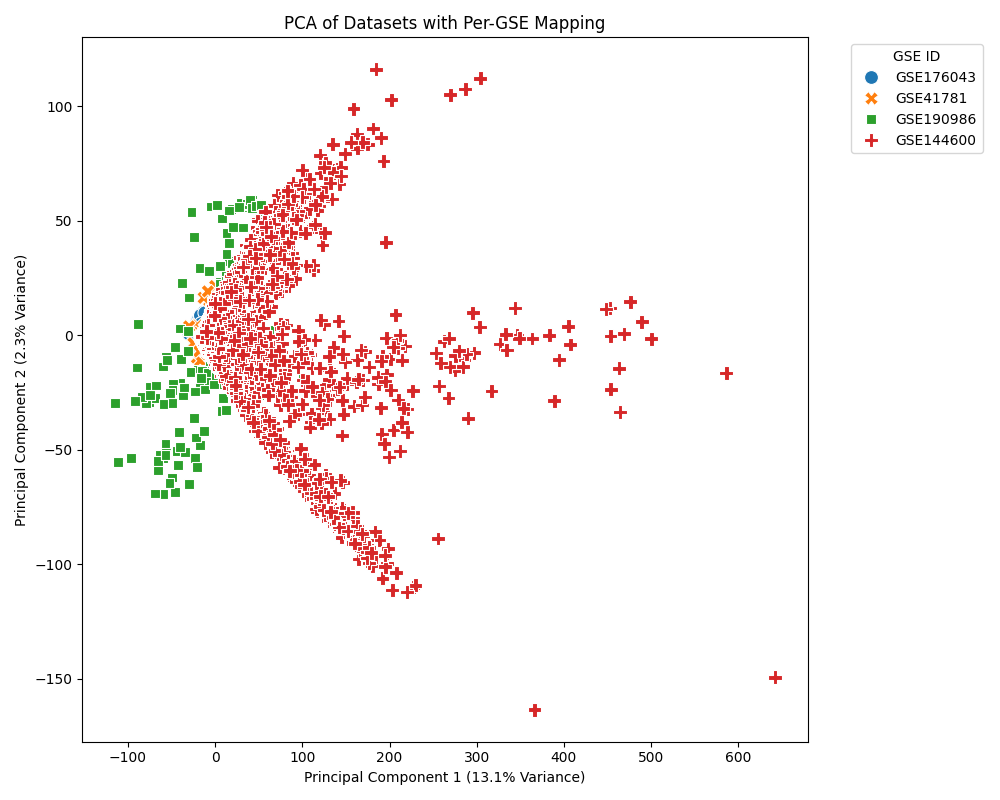
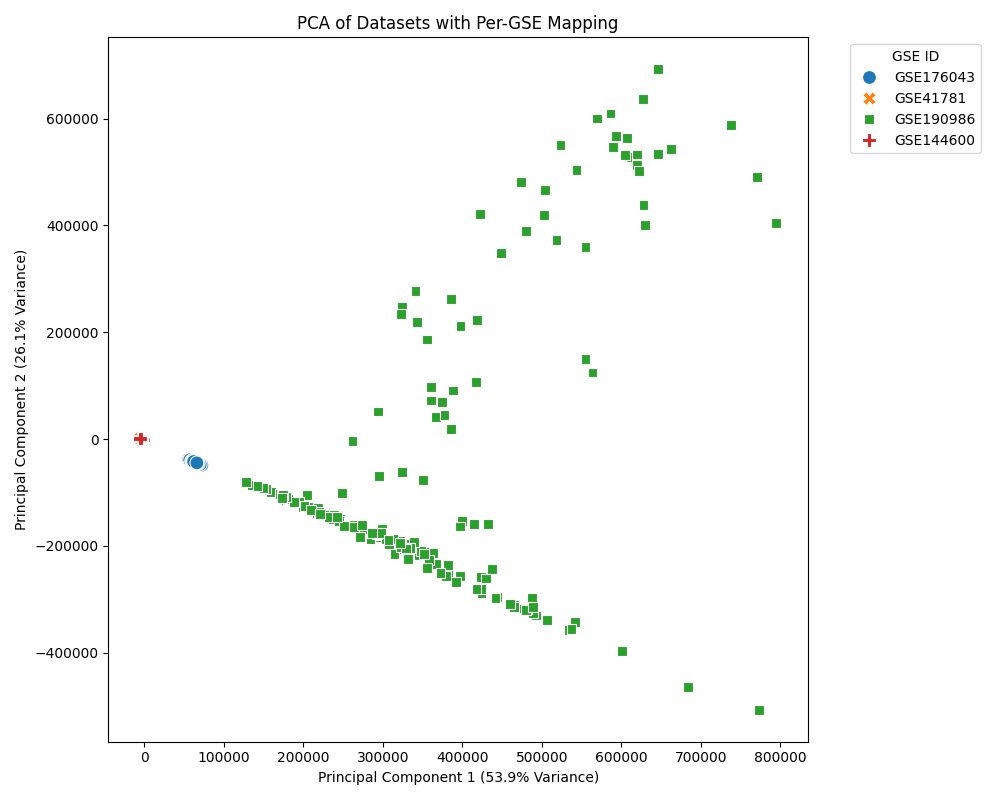
GSE solution - all plots vers

diff --git a/examples/coding/gse_solution/pca_plot_norenorm.py b/examples/coding/gse_solution/pca_plot_norenorm.py
@@ -1,0 +1,167 @@
+import pandas as pd
+import os
+from sklearn.decomposition import PCA
+from sklearn.preprocessing import RobustScaler, StandardScaler
+import matplotlib.pyplot as plt
+import seaborn as sns
+from itertools import combinations
+import numpy as np
+
+def plot_data_distributions(datasets):
+    for gse_id, data in datasets.items():
+        flattened_data = data.values.flatten()
+        flattened_data = flattened_data[~np.isnan(flattened_data)]
+        plt.figure(figsize=(10, 6))
+        plt.hist(flattened_data, bins=100, color='blue', alpha=0.7)
+        plt.title(f'Data Distribution for {gse_id}')
+        plt.xlabel('Expression Value')
+        plt.ylabel('Frequency')
+        plt.yscale('log')
+        plt.show()
+
+def compute_dataset_statistics(datasets):
+    for gse_id, data in datasets.items():
+        mean_value = np.nanmean(data.values)
+        variance_value = np.nanvar(data.values)
+        print(f"{gse_id} - Mean: {mean_value:.2f}, Variance: {variance_value:.2f}")
+
+def check_zero_variance_genes(data, gse_id):
+    if not isinstance(data, pd.DataFrame):
+        raise ValueError("Input data should be a Pandas DataFrame.")
+    # Calculate variance across rows (genes)
+    variances = data.var(axis=1)
+    # Identify zero variance genes
+    zero_variance_genes = variances == 0
+    num_zero_variance = zero_variance_genes.sum()
+    print(f"{gse_id} - Number of zero variance genes: {num_zero_variance}")
+
+def main():
+    # List of GSE IDs to process
+    #gse_ids = ['GSE41781', 'GSE144600']  # Removed GSE148911
+    gse_ids = ['GSE176043', 'GSE41781', 'GSE190986', 'GSE144600']  # Removed GSE148911
+
+    # Initialize a dictionary to store processed data
+    datasets = {}
+
+    # Check if output directory exists
+    output_dir = './output'
+    if not os.path.exists(output_dir):
+        print("Output directory does not exist. Please ensure that the processed data files are available.")
+        return
+
+    # Load each processed dataset
+    for gse_id in gse_ids:
+        processed_file = f'{output_dir}/{gse_id}_processed.csv'
+        if os.path.exists(processed_file):
+            print(f"Loading processed data for {gse_id} from {processed_file}")
+            data = pd.read_csv(processed_file, index_col=0, dtype=str, low_memory=False)
+            # Ensure all data is numeric except the index
+            data = data.apply(pd.to_numeric, errors='coerce')
+            datasets[gse_id] = data
+        else:
+            print(f"Processed data file for {gse_id} not found at {processed_file}.")
+            print(f"Please ensure that the file exists or run the data processing script first.")
+            return
+
+    compute_dataset_statistics(datasets)
+    plot_data_distributions(datasets)
+
+    # Sanity Check: Compare indices of each loaded mapped GSE as sets, pairwise
+    print("\nSanity Check: Pairwise Intersection Sizes of Gene Indices")
+    gse_gene_sets = {}
+    for gse_id, data in datasets.items():
+        check_zero_variance_genes(data, gse_id)
+        gene_set = set(data.index)
+        gse_gene_sets[gse_id] = gene_set
+        print(f"{gse_id} has {len(gene_set)} genes after mapping.")
+
+    # Calculate pairwise intersections
+    for gse1, gse2 in combinations(gse_ids, 2):
+        genes1 = gse_gene_sets[gse1]
+        genes2 = gse_gene_sets[gse2]
+        intersection_size = len(genes1 & genes2)
+        union_size = len(genes1 | genes2)
+        print(f"Intersection of {gse1} and {gse2}: {intersection_size} genes")
+        print(f"Union of {gse1} and {gse2}: {union_size} genes")
+        overlap_percentage = (intersection_size / union_size) * 100 if union_size > 0 else 0
+        print(f"Overlap percentage between {gse1} and {gse2}: {overlap_percentage:.2f}%\n")
+
+    # Combine the datasets
+    all_data = []
+    for gse_id in gse_ids:
+        data = datasets.get(gse_id)
+        if data is not None:
+            # Transpose data so that samples are rows
+            data_T = data.transpose()
+            # Add a column for the GSE ID
+            data_T['GSE_ID'] = gse_id
+            # Add a column for the sample ID
+            data_T['SampleID'] = data_T.index + f"_{gse_id}"
+            all_data.append(data_T)
+        else:
+            print(f"No data available for {gse_id}")
+
+    # Concatenate all data on common genes using an inner join
+    combined_data = pd.concat(all_data, axis=0, join='inner')
+
+    if combined_data.empty:
+        print("Combined data is empty after intersection of genes.")
+        return
+
+    # Separate labels and sample IDs before converting data to numeric
+    labels = combined_data['GSE_ID'].values
+    sample_ids = combined_data['SampleID'].values
+    combined_data = combined_data.drop(['GSE_ID', 'SampleID'], axis=1)
+
+    # Ensure that all columns are numeric
+    combined_data = combined_data.apply(pd.to_numeric, errors='coerce')
+
+    # Ensure that all column names are strings
+    combined_data.columns = combined_data.columns.astype(str)
+
+    # Remove columns (genes) with NaN values
+    combined_data = combined_data.dropna(axis=1)
+
+    # Remove rows (samples) with NaN values
+    combined_data = combined_data.dropna(axis=0)
+
+    if combined_data.empty:
+        print("Combined data is empty after dropping NaN values.")
+        return
+
+    # Standardize the data
+    scaler = RobustScaler()
+    data_scaled = scaler.fit_transform(combined_data)
+
+    # Perform PCA
+    pca = PCA(n_components=2)
+    principal_components = pca.fit_transform(data_scaled)
+    principal_df = pd.DataFrame(data=principal_components, columns=['PC1', 'PC2'])
+    principal_df['GSE_ID'] = labels
+    principal_df['SampleID'] = sample_ids
+
+    # Plot PCA with per-GSE mapping
+    plt.figure(figsize=(10, 8))
+    sns.scatterplot(
+        data=principal_df,
+        x='PC1', y='PC2',
+        hue='GSE_ID',
+        style='GSE_ID',
+        s=100,
+        palette='tab10'
+    )
+    plt.title('PCA of Datasets with Per-GSE Mapping')
+    plt.xlabel(f'Principal Component 1 ({pca.explained_variance_ratio_[0]*100:.1f}% Variance)')
+    plt.ylabel(f'Principal Component 2 ({pca.explained_variance_ratio_[1]*100:.1f}% Variance)')
+    plt.legend(title='GSE ID', bbox_to_anchor=(1.05, 1), loc='upper left')
+    plt.tight_layout()
+    plt.savefig('./output/pca_plot_per_gse.png')
+    plt.close()
+
+    # Print explained variance
+    explained_variance = pca.explained_variance_ratio_
+    print(f"Explained variance by PC1: {explained_variance[0]*100:.2f}%")
+    print(f"Explained variance by PC2: {explained_variance[1]*100:.2f}%")
+
+if __name__ == '__main__':
+    main()
